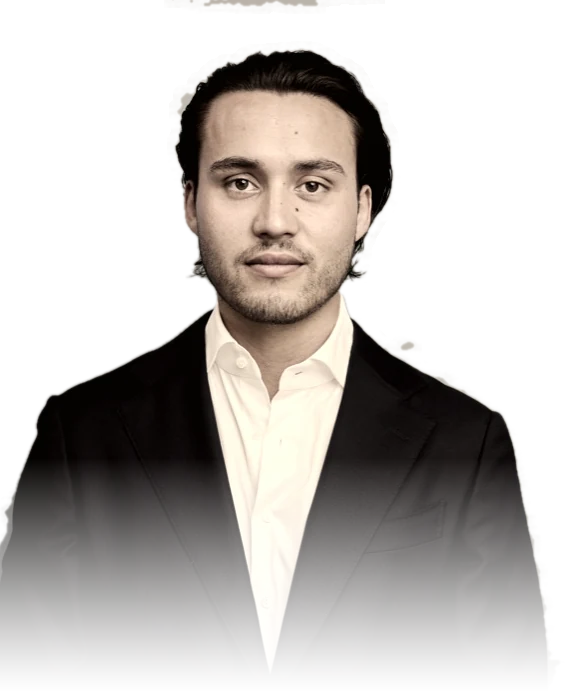
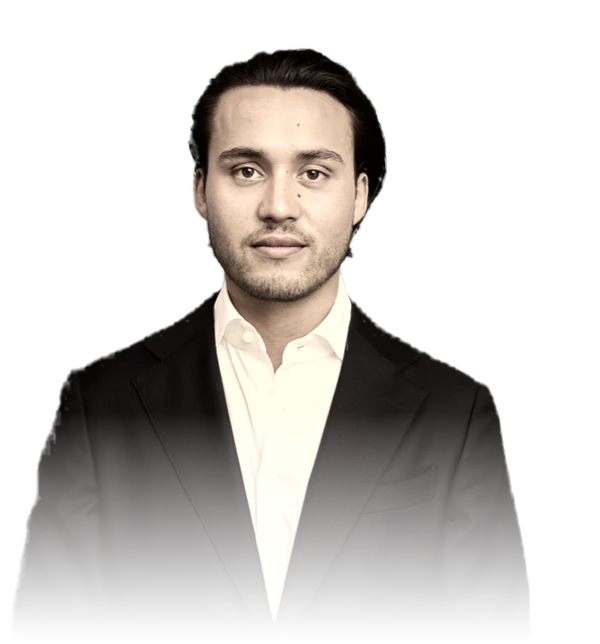
Portret netter uitgesneden
De vorige uitsnede dreef op de grootte van het kleurverschil met een
geschatte achtergrond. Dat gaf een lichte streep boven het hoofd, losse
vlekken bij de schouder en een halo langs het silhouet: de studioachtergrond
is achter het hoofd lichter dan aan de randen, en huid heeft ongeveer
dezelfde helderheid als het doek.

Nu op kleurrichting in plaats van op verschilgrootte. Gemeten: de
achtergrond is koel (blauw 15-27 hoger dan rood), terwijl colbert, overhemd
en huid allemaal neutraal of warm zijn. Dat scheidt ook in de donkere
onderhoek, waar helderheid geen onderscheid meer maakt.

Daarnaast alleen de vorm behouden die aan het gezicht vastzit, zodat losse
vlekken niet kunnen blijven staan, en een zachte overgang voor haarranden.
Uitsnede verbreed zodat de schouders niet meer tegen de rand lopen.

diff --git a/index.html b/index.html
@@ -312,7 +312,7 @@ footer{border-top:1px solid var(--line);padding-block:1.8rem;display:flex;justif
         </div>
       </div>
       <figure class="portrait rise d4">
-        <img src="images/levi-warm.webp" alt="Levi Hekman" width="588" height="694">
+        <img src="images/levi-warm.webp" alt="Levi Hekman" width="600" height="644">
         <figcaption><b>Levi Hekman</b>Security &amp; AI · Nederland</figcaption>
       </figure>
     </div>
